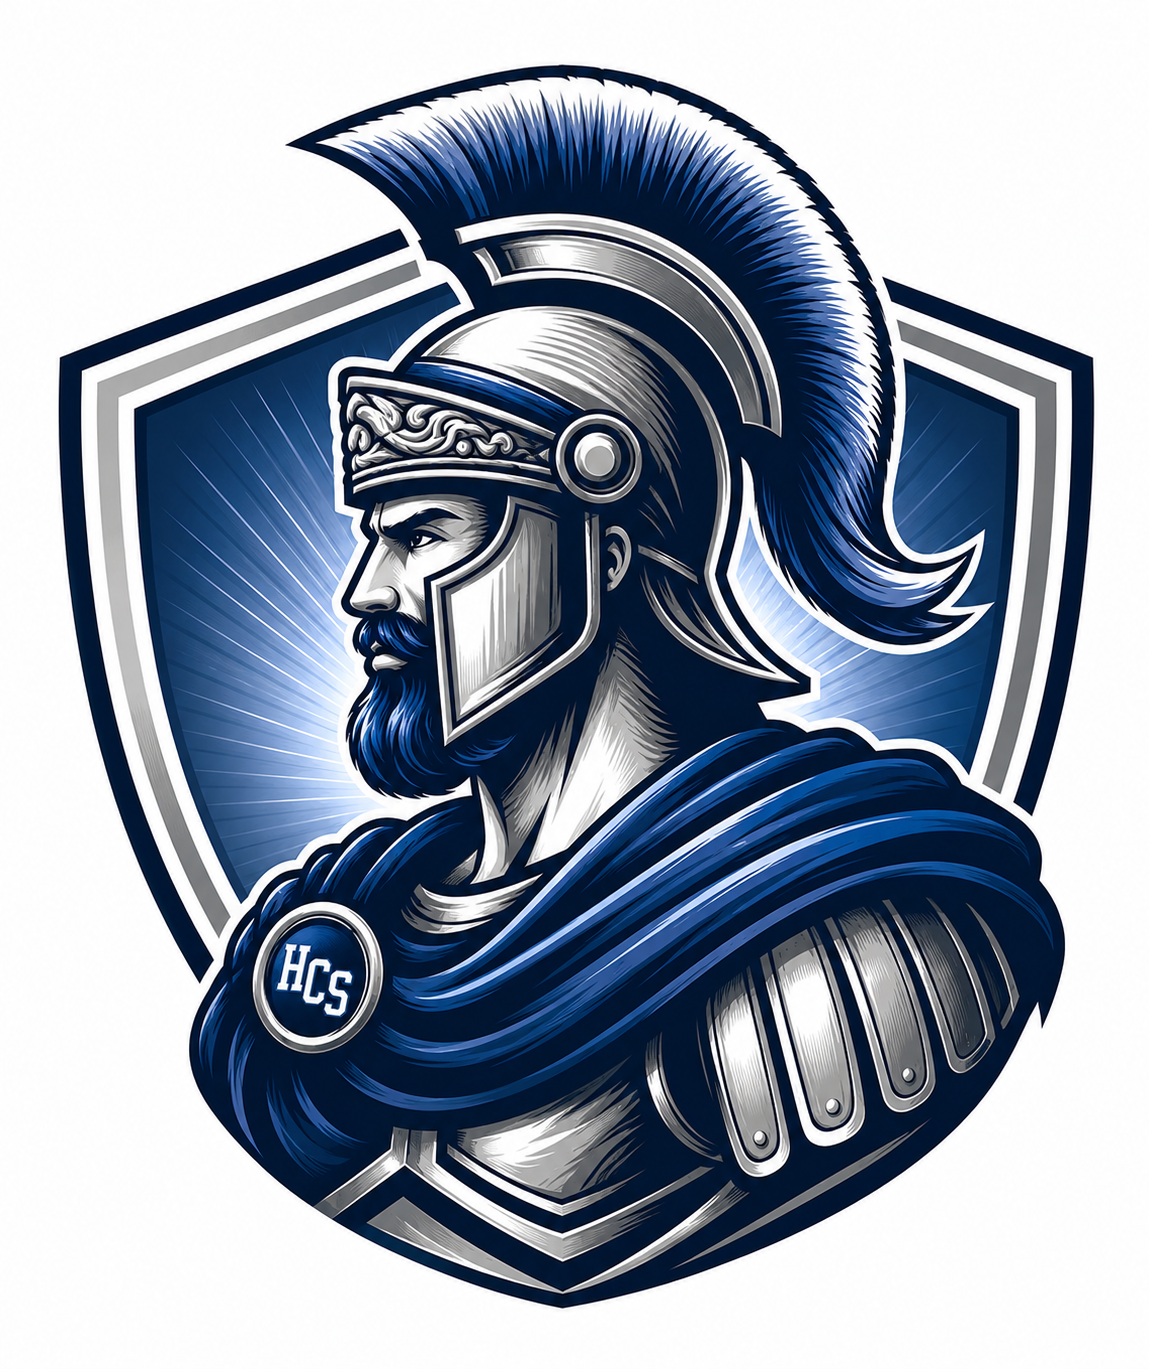
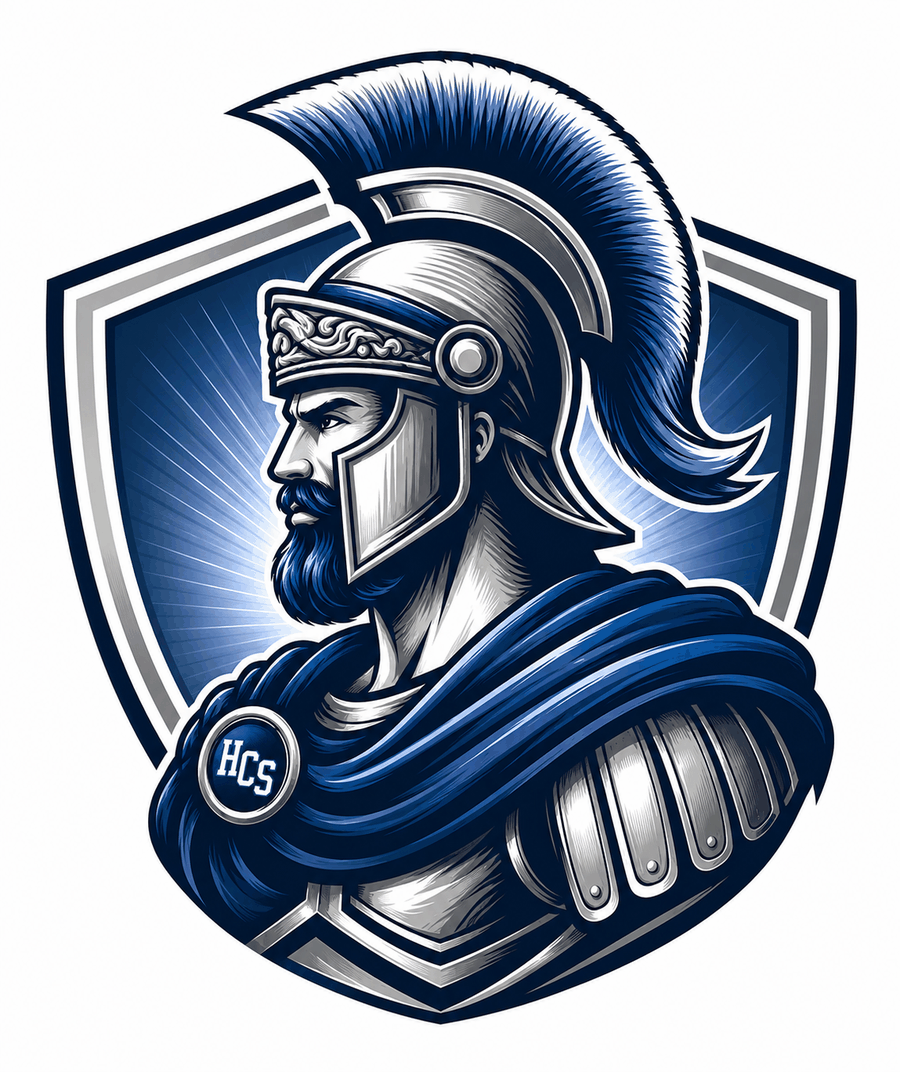
Point the athletics crest at the new .png and fit the new photos
The crest was replaced as conquerors-crest.png but the markup still
asked for conquerors-crest.jpg, which no longer exists — hence the
broken image. Reference updated.

Optimised the crest: 1149x1369 at 1.9MB, displayed around 415px wide.
Resized to 900px and quantised to a 256-colour palette, which this flat
artwork takes without visible banding — 1935KB down to 515KB. It is a
logo rather than a photo, so it now fits with object-fit: contain and
shows the whole shield instead of cropping its sides.

The three new team photos are 1800x1286 rather than the old 1600x1280.
Slide crops now match that shape, so the "HARTLAND CONQUERORS 2025-2026"
lettering along the bottom is no longer cut off, and the hero's stale
921x443 attributes are corrected to avoid layout shift. Alt text names
the 2025-2026 teams.

Claude-Session: https://claude.ai/code/session_011KUDCsyXhXmj7GwiNX1KpY

Changed region(s): [[0.7467, 0.3078, 0.7778, 0.3386], [0.56, 0.5541, 0.5911, 0.5849], [0.5289, 0.5849, 0.56, 0.6157]]

diff --git a/athletics/index.html b/athletics/index.html
@@ -41,7 +41,7 @@
 <main id="main">
 <section class="hero hero--contain" style="background:#fff">
   <div class="wrap" style="padding-block:1.5rem">
-    <img src="/assets/img/vball.jpg" alt="Hartland Christian School volleyball in action" width="921" height="443" fetchpriority="high" style="margin-inline:auto">
+    <img src="/assets/img/vball.jpg" alt="The Hartland Conquerors, 2025-2026" width="1800" height="1263" fetchpriority="high" style="margin-inline:auto">
   </div>
 </section>
 
@@ -61,7 +61,7 @@
         <p>We warmly invite students, staff, parents/guardians, friends, and relatives to attend our game with good sportsmanship and encouragement for all teams. Additionally, we welcome parents/guardians to contribute by volunteering in our snack shop, fostering a sense of community and support within our school.</p>
       </div>
       <div class="athletics-lede__media">
-        <img src="/assets/img/conquerors-crest.jpg" alt="The Hartland Christian School Conquerors crest" loading="lazy" width="408" height="574">
+        <img src="/assets/img/conquerors-crest.png" alt="The Hartland Christian School Conquerors crest" loading="lazy" width="900" height="1072">
       </div>
     </div>
   </div>
@@ -75,7 +75,7 @@
 <div class="carousel__viewport"><div class="carousel__track">
 <div class="carousel__slide" role="group" aria-roledescription="slide" aria-label="1 of 2"><div class="team-slide">
   <h3>boys basketball</h3>
-  <div class="team-slide__media"><img src="/assets/img/basketball-team.jpg" alt="The Hartland Christian School boys basketball team" width="1039" height="636"></div>
+  <div class="team-slide__media"><img src="/assets/img/basketball-team.jpg" alt="The Hartland Christian School boys basketball team, 2025-2026" width="1800" height="1286"></div>
   <p class="team-slide__caption">headcoach: Mark Hansen<br>assistant coaches: Ben Clukey, Aaron Lamoreau, Rick Savage</p>
 </div></div>
 <div class="carousel__slide" role="group" aria-roledescription="slide" aria-label="2 of 2"><div class="team-slide">
@@ -98,7 +98,7 @@
 <div class="carousel__viewport"><div class="carousel__track">
 <div class="carousel__slide" role="group" aria-roledescription="slide" aria-label="1 of 2"><div class="team-slide">
   <h3>girls volleyball</h3>
-  <div class="team-slide__media"><img src="/assets/img/volleyball-team.jpg" alt="The Hartland Christian School girls volleyball team" width="1039" height="636"></div>
+  <div class="team-slide__media"><img src="/assets/img/volleyball-team.jpg" alt="The Hartland Christian School girls volleyball team, 2025-2026" width="1800" height="1286"></div>
   <p class="team-slide__caption">headcoach: Rachael Parker<br>assistant coach: Julia Brooks</p>
 </div></div>
 <div class="carousel__slide" role="group" aria-roledescription="slide" aria-label="2 of 2"><div class="team-slide">

diff --git a/assets/css/site.css b/assets/css/site.css
@@ -664,7 +664,7 @@ button { font: inherit; color: inherit; background: none; border: 0; cursor: poi
 .team-slide { text-align: center; }
 .team-slide h3 { font-family: var(--f-display); font-size: clamp(1.75rem, 4vw, 2.75rem); letter-spacing: .06em; color: var(--olive); line-height: 1.2; }
 .team-slide__media { margin-top: clamp(1.5rem, 3vw, 2.25rem); }
-.team-slide__media img { width: 100%; aspect-ratio: 1039 / 636; object-fit: cover; }
+.team-slide__media img { width: 100%; aspect-ratio: 1800 / 1286; object-fit: cover; }
 .team-slide__caption { margin-top: 1.5rem; font-family: var(--f-body); font-weight: 600; text-transform: uppercase; letter-spacing: .2em; font-size: .9rem; line-height: 1.9; color: var(--forest); }
 .collage { display: grid; gap: 1rem; grid-template-columns: repeat(2, minmax(0, 1fr)); margin-top: clamp(1.5rem, 3vw, 2.25rem); }
 @media (min-width: 780px) { .collage { grid-template-columns: repeat(3, minmax(0, 1fr)); } }
@@ -675,7 +675,7 @@ button { font: inherit; color: inherit; background: none; border: 0; cursor: poi
 .athletics-lede { display: grid; gap: clamp(2rem, 5vw, 3.5rem); grid-template-columns: minmax(0, 1fr); align-items: start; }
 @media (min-width: 900px) { .athletics-lede { grid-template-columns: minmax(0, 7fr) minmax(0, 5fr); } }
 .athletics-lede__media { background: #fff; padding: 10px; border: 1px solid var(--grey); }
-.athletics-lede__media img { width: 100%; aspect-ratio: 408 / 574; object-fit: cover; }
+.athletics-lede__media img { width: 100%; height: auto; object-fit: contain; }
 
 /* =========================================================== tuition page */
 .tuition-note { max-width: 940px; margin-inline: auto; }

diff --git a/tools/build.py b/tools/build.py
@@ -660,7 +660,7 @@ def athletics():
         return [
             f"""<div class="team-slide">
   <h3>{name}</h3>
-  <div class="team-slide__media"><img src="/assets/img/{hero}" alt="{hero_alt}" width="1039" height="636"></div>
+  <div class="team-slide__media"><img src="/assets/img/{hero}" alt="{hero_alt}" width="1800" height="1286"></div>
   <p class="team-slide__caption">{caption}</p>
 </div>""",
             f"""<div class="team-slide">
@@ -671,17 +671,17 @@ def athletics():
         ]
 
     bball = team("boys basketball", "basketball-team.jpg",
-                 "The Hartland Christian School boys basketball team",
+                 "The Hartland Christian School boys basketball team, 2025-2026",
                  "headcoach: Mark Hansen<br>assistant coaches: Ben Clukey, Aaron Lamoreau, Rick Savage",
                  bball_years, "Boys basketball")
     vball = team("girls volleyball", "volleyball-team.jpg",
-                 "The Hartland Christian School girls volleyball team",
+                 "The Hartland Christian School girls volleyball team, 2025-2026",
                  "headcoach: Rachael Parker<br>assistant coach: Julia Brooks",
                  vball_years, "Girls volleyball")
 
     return f"""<section class="hero hero--contain" style="background:#fff">
   <div class="wrap" style="padding-block:1.5rem">
-    <img src="/assets/img/vball.jpg" alt="Hartland Christian School volleyball in action" width="921" height="443" fetchpriority="high" style="margin-inline:auto">
+    <img src="/assets/img/vball.jpg" alt="The Hartland Conquerors, 2025-2026" width="1800" height="1263" fetchpriority="high" style="margin-inline:auto">
   </div>
 </section>
 
@@ -701,7 +701,7 @@ def athletics():
         <p>We warmly invite students, staff, parents/guardians, friends, and relatives to attend our game with good sportsmanship and encouragement for all teams. Additionally, we welcome parents/guardians to contribute by volunteering in our snack shop, fostering a sense of community and support within our school.</p>
       </div>
       <div class="athletics-lede__media">
-        <img src="/assets/img/conquerors-crest.jpg" alt="The Hartland Christian School Conquerors crest" loading="lazy" width="408" height="574">
+        <img src="/assets/img/conquerors-crest.png" alt="The Hartland Christian School Conquerors crest" loading="lazy" width="900" height="1072">
       </div>
     </div>
   </div>
